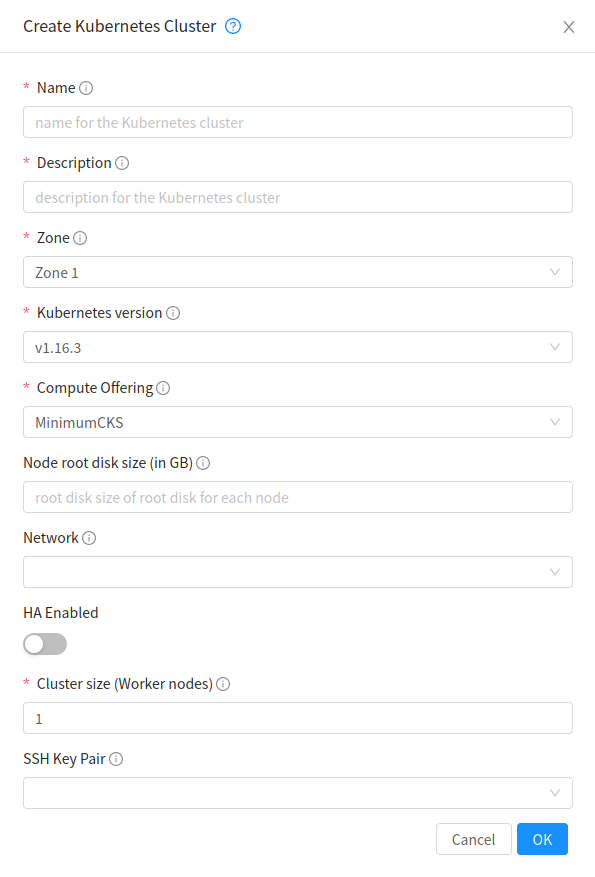
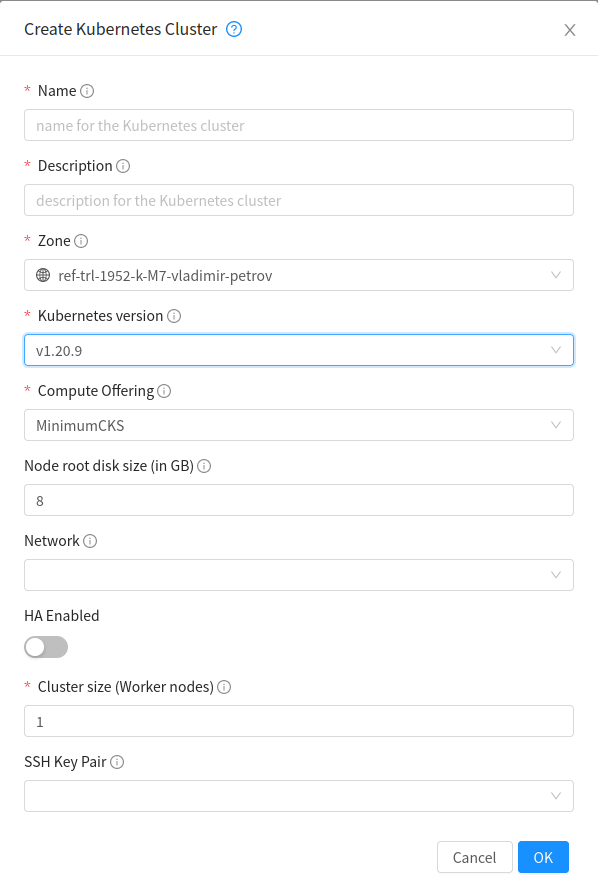
Add details for CoreOS replacement with Debian (SystemVM template) + Cluster Autoscaler (#168)
* Add details for CoreOS replacement with Debian (SystemVM template)

* Add note on systemvm upgrade changes

* Add k8s supported version details

* Update create cks cluster form

diff --git a/source/plugins/cloudstack-kubernetes-service.rst b/source/plugins/cloudstack-kubernetes-service.rst
@@ -15,13 +15,13 @@ CloudStack Kubernetes Service
 
 The Kubernetes Service plugin adds Kubernetes integration to CloudStack. The plugin is disabled by default and an admin can enable it using a Global Setting. It enables users to run containerized services using Kubernetes clusters.
 
-Kubernetes Service plugin uses a CoreOS based template for node VMs for the Kubernetes cluster. CoreOS has been used as it provides docker installation and networking rules needed for Kubernetes by default. In future, different guest OSes might be used. For installation of Kubernetes binaries on cluster nodes, a binaries ISO is used for each Kubernetes version to be made available via CloudStack. This allows faster, offline installation of Kubernetes binaries and docker images along with support for adding multiple versions of Kubernetes for upgrades and running different clusters.
+With CoreOS having reached EOL, from 4.16 the Kubernetes Service Plugin will use the existing SystemVM template for deploying kubernetes clusters. For installation of Kubernetes binaries on the cluster nodes, a binaries ISO is used for each Kubernetes version to be made available via CloudStack. This allows faster, offline installation of Kubernetes binaries and docker images along with support for adding multiple versions of Kubernetes for upgrades and running different clusters.
 
 For deployment and setup of Kubernetes on cluster nodes, the plugin uses the Kubernetes tool, 'kubeadm'. kubeadm is the command-line tool for easily provisioning a secure Kubernetes cluster on top of physical or cloud servers or virtual machines. Under the hood, control node(s) of the cluster starts a Kubernetes cluster using kubeadm init command with a custom token, and worker nodes join this Kubernetes cluster using kubeadm join command with the same token. More about kubeadm here: https://kubernetes.io/docs/reference/setup-tools/kubeadm/kubeadm/. Weave Net CNI provider plugin is used for cluster networking. More about Weave Net provide plugin here: https://www.weave.works/docs/net/latest/kubernetes/kube-addon/.
 
 To access the Kubernetes dashboard securely, the plugin provides access to kubeconfig file data which uses the Kubernetes tool kubectl to run a local proxy and thereby access the dashboard. More about kubectl here: https://kubernetes.io/docs/reference/kubectl/overview/
 
-The service allows creation of Kubernetes clusters using the UI or API. Both UI and API provide the ability to list, delete, scale upgrade, stop and start these clusters.
+The service allows creation of Kubernetes clusters using the UI or API. Both UI and API provide the ability to list, delete, scale, upgrade, stop and start these clusters.
 
 Enabling the Kubernetes Service
 --------------------------------
@@ -38,9 +38,10 @@ Restart the Management Server to enable the set configuration values.
 
    # service cloudstack-management restart
 
-   # service cloudstack-usage restart
+Once the Kubernetes service is running the new APIs will become accessible and the UI will show the Kubernetes tab under the Compute section.
 
-Once the Kubernetes service is running the new APIs will become accessible and the UI will start show a Kubernetes Service tab.
+**NOTE:**
+From ACS 4.16 onwards, if a CKS cluster is to be deployed on VMware, the 'vmware.create.full.clone' configuration parameter will need to be set to true, so as to allow resizing of root volumes of the cluster nodes.
 
 Kubernetes Supported Versions
 ------------------------------
@@ -65,6 +66,9 @@ Eg:
 .. parsed-literal::
 
    # ./create-kubernetes-binaries-iso.sh ./ 1.12.5 0.7.1 1.12.0 "https://cloud.weave.works/k8s/net?k8s-version=1.12.5" https://raw.githubusercontent.com/kubernetes/dashboard/v2.0.0-beta1/aio/deploy/recommended.yaml
+
+**NOTE:**
+From ACS 4.16 onwards, Kubernetes versions >= 1.20.x are only supported (https://endoflife.date/kubernetes).
 
 Working with Kubernetes supported version
 ~~~~~~~~~~~~~~~~~~~~~~~~~~~~~~~~~~~~~~~~~~
@@ -128,29 +132,14 @@ Deleting supported Kubernetes version
 deleteKubernetesSupportedVersion API has been provided for admins to delete an existing supported version if it is not used by any Kubernetes cluster in the service. id parameter of the API can be used to pass Kubernetes version to be deleted.
 
 .. note::
-   addKubernetesSupportedVersion, updatedKubernetesSupportedVersion and deleteKubernetesSupportedVersion APIs are available to admin only
+   addKubernetesSupportedVersion, updateKubernetesSupportedVersion and deleteKubernetesSupportedVersion APIs are available to root admins only
 
 Kubernetes clusters
 --------------------
 
-The Kubernetes service provides the functionality of running and managing Kubernetes clusters. Highly available, scalable Kubernetes clusters can be created to run containerized deployments without having to set up Kubernetes on each container node manually. The service will automatically provision the desired number of virtual machines as per cluster size using the binaries from the given Kubernetes version. Additionally, the service provides the functionality to upgrade and scale clusters. Running clusters can be upgraded to a newer minor or patch Kubernetes version at a time. Running clusters can also be scaled for the number of worker nodes up and down and for the service offering used by each node.
+The Kubernetes service provides the functionality of running and managing Kubernetes clusters. Highly available, scalable Kubernetes clusters can be created to run containerized deployments without having to set up Kubernetes on each container node manually. The service will automatically provision the desired number of virtual machines as per cluster size using the binaries corresponding to the provided Kubernetes version. Additionally, the service provides the functionality to upgrade and scale clusters. Running clusters can be upgraded to a newer minor or patch Kubernetes version at a time. Running clusters can also be scaled up or down based on the number of worker nodes provided and to the service offering used by each node.
 
-This provides functionality to create Kubernetes clusters for Shared, Isolated and VPC networks in CloudStack, but such networks must be accessible to the CloudStack management server for provisioning virtual machines on the cluster. Template and default network offering must be set Global Settings for the service to create Kubernetes clusters.
-
-.. note::
-   In case of isolated and VPC networks, if egress rules and ACLs don't allow traffic the setup of the Kubernetes cluster and deployment of pods may fail due to inability of fetching the images from public network.
-
-The following Global Settings value must be set to the name of Template to be used for deploying node virtual machines for the respective hypervisor while creating a Kubernetes cluster:
-
-- **cloud.kubernetes.cluster.template.name.hyperv** (Name of the template to be used for creating Kubernetes cluster nodes on HyperV)
-- **cloud.kubernetes.cluster.template.name.kvm** (Name of the template to be used for creating Kubernetes cluster nodes on KVM)
-- **cloud.kubernetes.cluster.template.name.vmware** (Name of the template to be used for creating Kubernetes cluster nodes on VMware)
-- **cloud.kubernetes.cluster.template.name.xenserver** (Name of the template to be used for creating Kubernetes cluster nodes on Xenserver)
-
-Using a CoreOS template is required - you can find CoreOS templates for CloudStack here, http://dl.openvm.eu/cloudstack/coreos/x86_64/
-
-.. note::
-   For VMware, CoreOS template must be registered with root disk controller as **pvscsi** and NIC adapter type as **Vmxnet3**.
+This provides functionality to create Kubernetes clusters for Shared, Isolated and VPC networks in CloudStack, but such networks must be accessible to the CloudStack management server for provisioning virtual machines on the cluster. The default network offering must be set in the Global Settings for the service to create Kubernetes clusters.
 
 The following Global Setting value must be set to the name of Network Offering to be used for creating a new network when no network has been selected while creating a Kubernetes cluster:
 
@@ -172,7 +161,7 @@ For Kubernetes cluster management, the service provides create, stop, start, sca
 Creating a new Kubernetes cluster
 ##################################
 
-New Kubernetes clusters can be create using API or from UI. User will be provided with a Add Kubernetes Cluster form as shown below,
+New Kubernetes clusters can be created using the API or via the UI. User will be provided with an 'Add Kubernetes Cluster' form as shown below,
 
 |cks-create-cluster-form.png|
 
@@ -227,13 +216,13 @@ For example:
      }
    }
 
-On successful creation, the new cluster will be automatically started and will show up in Running state. If creation of the new cluster fails it can be in following states:
+On successful creation, the new cluster will automatically be started and will show up in Running state. If creation of the new cluster fails it can be in following states:
 - Alert – When node virtual machines were successfully provisioned, and cluster API server is accessible but further provisioning steps could not be completed.
-- Error – When the service has unable to provision node virtual machines for the cluster or cluster API server is not accessible.
+- Error – When the service was unable to provision the node virtual machines for the cluster or if the cluster API server is not accessible.
 
 .. note::
-   - For CoreOS, a minimum of 2 cores of CPU and 2GB of RAM is needed for deployment. Therefore, the serviceofferingid parameter of createKuberntesCluster API must be provided with the ID of such compute offerings that conform to these requirements.
-   - Private docker registry related parameters of createKubentesCluster API (dockerregistryusername, dockerregistryusername, dockerregistryurl, dockerregistryemail) provides experimental functionality. To use them during cluster deployment value for global setting, cloud.kubernetes.cluster.experimental.features.enabled, must be set as true by admin beforehand.
+   - A minimum of 2 cores of CPU and 2GB of RAM is needed for deployment. Therefore, the serviceofferingid parameter of createKubernetesCluster API must be provided with the ID of such compute offerings that conform to these requirements.
+   - Private docker registry related parameters of createKubenetesCluster API (dockerregistryusername, dockerregistryusername, dockerregistryurl, dockerregistryemail) provides experimental functionality. To use them during cluster deployment value for global setting, cloud.kubernetes.cluster.experimental.features.enabled, must be set to true by admin beforehand.
 
 Listing Kubernetes clusters
 ############################
@@ -245,18 +234,14 @@ listKubernetesCluster API can be used to list existing Kubernetes clusters. id p
 Stopping Kubernetes cluster
 ############################
 
-A running Kubernetes cluster can be stopped using both the API and |cks-stop-action.png| action icon from UI. action icon is shown for a running cluster in the UI.
-
-stopKubernetesCluster can be used to stop a running cluster. It takes id of the cluster as the input parameter.
+A running Kubernetes cluster can be stopped using either the stopKubernetesCluster API which takes id of the cluster as an input parameter or |cks-stop-action.png| action icon from UI. action icon is shown for a running cluster in the UI.
 
 Starting a stopped Kubernetes cluster
 ######################################
 
-A stopped Kubernetes cluster can be started using both API and the |cks-start-action.png| action icon from UI. action icon is shown for a stopped cluster in the UI.
+A stopped Kubernetes cluster can be started using either the startKubernetesCluster API which takes id of the cluster as the input parameter or the |cks-start-action.png| action icon from UI. action icon is shown for a stopped cluster in the UI.
 
-startKubernetesCluster can be used to start a stopped cluster. It takes id of the cluster as the input parameter.
-
-When the service fails to start a stopped cluster, the cluster will show in Alert state else it will show in Running state.
+When the service fails to start a stopped cluster, the cluster will show in Alert state else it will show up as Running.
 
 Scaling Kubernetes cluster
 ###########################
@@ -265,15 +250,15 @@ A running or stopped Kubernetes cluster can be scaled using both API and UI. |ck
 
 |cks-scale-cluster-form.png|
 
-scaleKubernetesCluster API can be used to scale a running (or stopped cluster) for a desired cluster size and service offering. It takes following parameters as input,
+scaleKubernetesCluster API can be used to scale a running (or stopped cluster) to a desired cluster size and service offering. It takes the following parameters as input:
 
 - **id** (the ID of the Kubernetes cluster to be scaled; Required)
 - **serviceofferingid** (the ID of the new service offering for the virtual machines in the cluster)
 - **size** (number of Kubernetes cluster worker nodes)
 
-Only running Kubernetes clusters can be scaled for size. When the service fails to scale the cluster, the cluster will show in Alert state else if the scaling is successfull cluster will show up in Running state.
+Only running Kubernetes clusters can be scaled in size. When the service fails to scale the cluster, the cluster will show in Alert state else if the scaling is successfull cluster will show up in Running state.
 
-Note: Only upscaling is supported while scaling clusters for service offering.
+Note: Only up scaling is supported while scaling clusters for service offering.
 
 Upgrading Kubernetes cluster
 #############################
@@ -282,30 +267,28 @@ A running Kubernetes cluster can be upgraded using both API and UI. |cks-upgrade
 
 |cks-upgrade-cluster-form.png|
 
-upgradeKubernetesCluster API can be used to upgrade a running cluster. It takes following parameters as input:
+upgradeKubernetesCluster API can be used to upgrade a running cluster. It takes the following parameters as input:
 
 - **id** (the ID of the Kubernetes cluster to be upgraded; Required)
 - **kubernetesversionid** (Kubernetes version with which cluster to be launched; Required)
 
-When the service fails to upgrade the cluster, the cluster will show in Alert state. If the upgrade has been successful cluster will show in Running state.
+When the service fails to upgrade the cluster, the cluster will show up in Alert state, else if successful, the cluster appears Running state.
 
 .. note:: Kubernetes can be upgraded from one MINOR version to the next MINOR version, or between PATCH versions of the same MINOR. That is, you cannot skip MINOR versions when you upgrade. For example, you can upgrade from 1.y to 1.y+1, but not from 1.y to 1.y+2. Therefore, service can upgrade running clusters in the similar manner only.
 
 Deleting Kubernetes cluster
 ############################
 
-Both UI and API can be used to delete a created Kubernetes cluster. |cks-delete-action.png| action icon will be available in UI to delete a cluster.
+A kubernetes cluster can be deleted using either the deleteKubernetesCluster API which takes cluster id as the input parameter or the |cks-delete-action.png| action icon from the UI.
 
-deleteKubernetesCluster can be used to delete a cluster. It takes id of the cluster as the input parameter.
-
-The Kubernetes service runs a background state scanner process which regularly checks for cluster health. For clusters in Alert state, this background process verifies their state and moves them to Running state if all node virtual machines for the cluster are running and API server for the cluster is accessible.
+The Kubernetes service runs a background state scanner process which regularly checks the cluster health. For clusters in Alert state, this background process verifies their state and moves them to Running state if all node virtual machines of the cluster are running and the API server for the cluster is accessible.
 
 Working with Kubernetes cluster
 ~~~~~~~~~~~~~~~~~~~~~~~~~~~~~~~~
 
 |cks-cluster-details-tab.png|
 
-Once a Kubernetes cluster is created successfully and it is running state, it can be accessed using kubectl tool using cluster’s kubeconfig file. The web dashboard can be accessed by running local proxy using kubectl. Deployments in the cluster can be done using kubectl or web dashboard. More about deployment in Kubernetes here: https://kubernetes.io/docs/concepts/workloads/controllers/deployment/
+Once a Kubernetes cluster is created successfully and is in Running state, it can be accessed using the kubectl tool using the cluster’s kubeconfig file. The web dashboard can be accessed by running a local proxy using kubectl. Deployments in the cluster can be done using kubectl or web dashboard. More about deployment in Kubernetes here: https://kubernetes.io/docs/concepts/workloads/controllers/deployment/
 
 Accessing Kubernetes cluster
 #############################
@@ -331,7 +314,7 @@ The following command can be used, while passing the correct path to kubeconfig 
 
    # kubectl --kubeconfig /custom/path/kube.config proxy
 
-Once the proxy is running user can open the following URL in the browser to open the dashboard,
+Once the proxy is running, users can open the following URL in the browser to access the dashboard,
 
 .. parsed-literal::
 
@@ -339,7 +322,7 @@ Once the proxy is running user can open the following URL in the browser to open
 
 |cks-cluster-dashboard.png|
 
-Token for dashboard login can be retrieved using following command
+Token for dashboard login can be retrieved using the following command:
 
 .. parsed-literal::
 

diff --git a/source/upgrading/index.rst b/source/upgrading/index.rst
@@ -28,6 +28,12 @@ Upgrading CloudStack
 This document contains the instructions for upgrading CloudStack from prior releases, to the current 
 release.  Please read through all sections carefully before starting.
 
+From ACS 4.16 onwards, seeding of system-VM template is optional, as this will be taken care of by either the upgrade process or
+in case of a fresh deployment, registration of the systemVM template(s) is handled during the addition of the first image store to a zone.
+The `cloudstack-management` package will now include the systemVM templates for KVM, XenServer and VMWare. In case templates aren't already registered
+either prior upgrade or during fresh installation, ACS will handle the template registration automatically, by mounting the secondary store onto the 
+management server, copying the respective templates to the store and then creating the `template.properties` file.
+
 .. note::
    For information on the API changes and issues fixed in this release, please see the Release Notes section of the documentation
 

diff --git a/source/upgrading/upgrade/_sysvm_templates.rst b/source/upgrading/upgrade/_sysvm_templates.rst
@@ -28,7 +28,11 @@ Update System-VM templates
 #. Click Register template.
    The Register template dialog box is displayed.
 
-#. In the Register template dialog box, specify the following values
+#. From ACS 4.16 onwards, CloudStack will support automatic registration of systemVM
+   templates, if not done prior initiating upgrade. However, the usual upgrade process 
+   continues to be supported. To register the system VM template do the following:
+
+   In the Register template dialog box, specify the following values
    (do not change these):
 
    .. cssclass:: table-striped table-bordered table-hover

diff --git a/source/installguide/management-server/_systemvm.rst b/source/installguide/management-server/_systemvm.rst
@@ -16,6 +16,9 @@
 Prepare the System VM Template
 ------------------------------
 
+From Apache CloudStack v4.16 onwards, upgrade path handles systemVM template registration, if not done prior to initiating upgrade.
+One may choose, to also omit the systemVM template seeding step during fresh installation of CloudStack, as support has been added to 
+initiate systemVM template registration for all hypervisors present in the zone when the first secondary storage pool is added.
 Secondary storage must be seeded with a template that is used for
 CloudStack system VMs.
 
